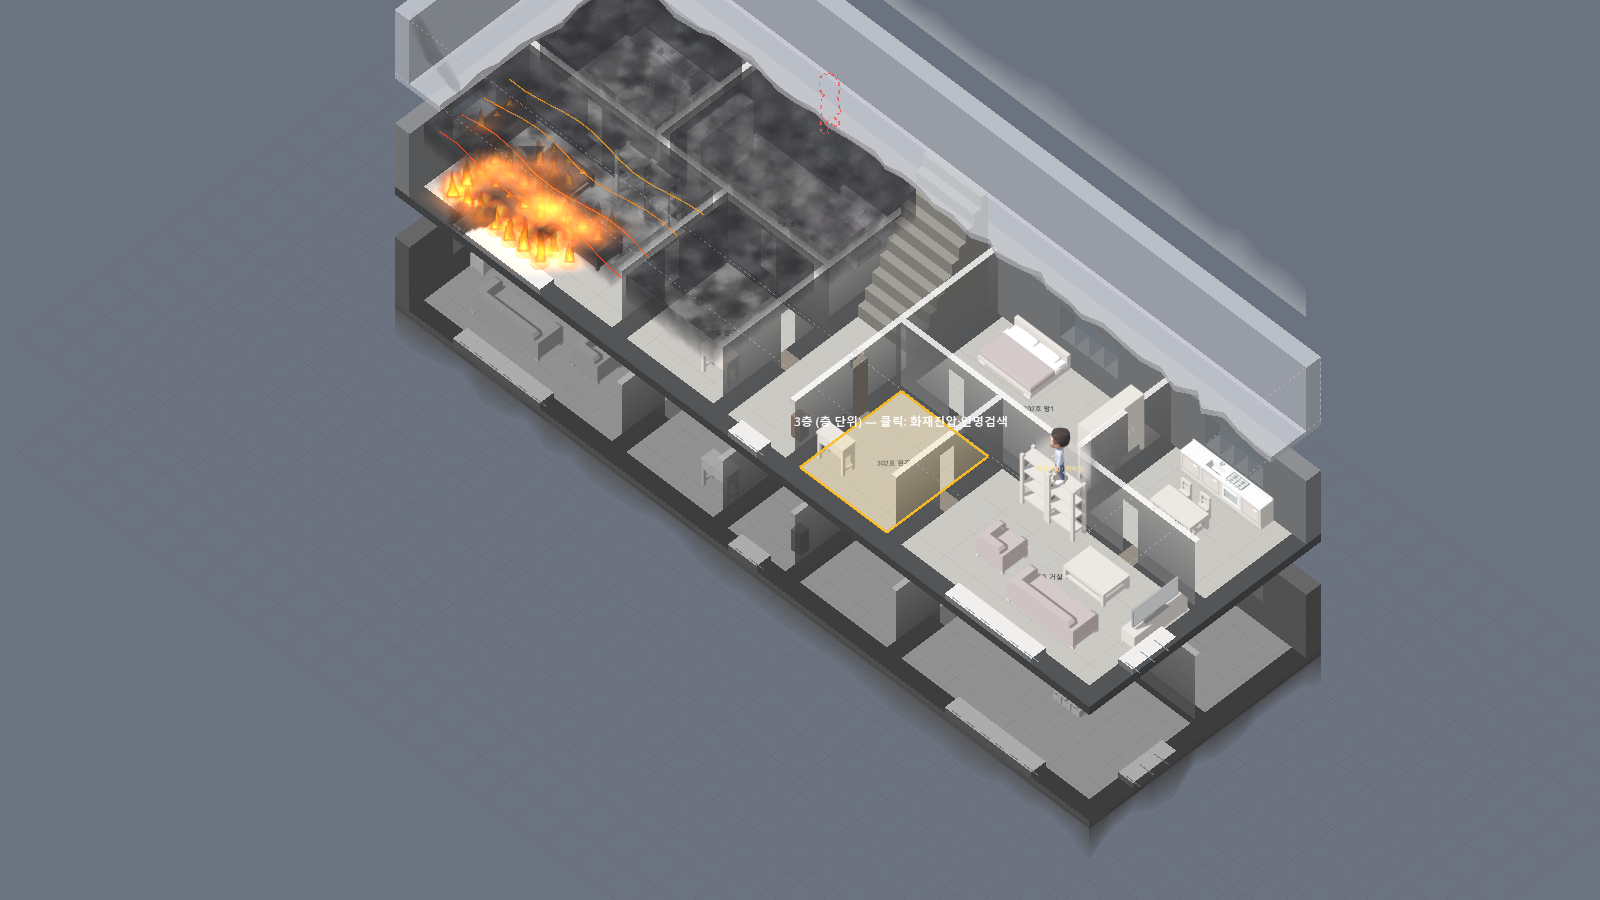
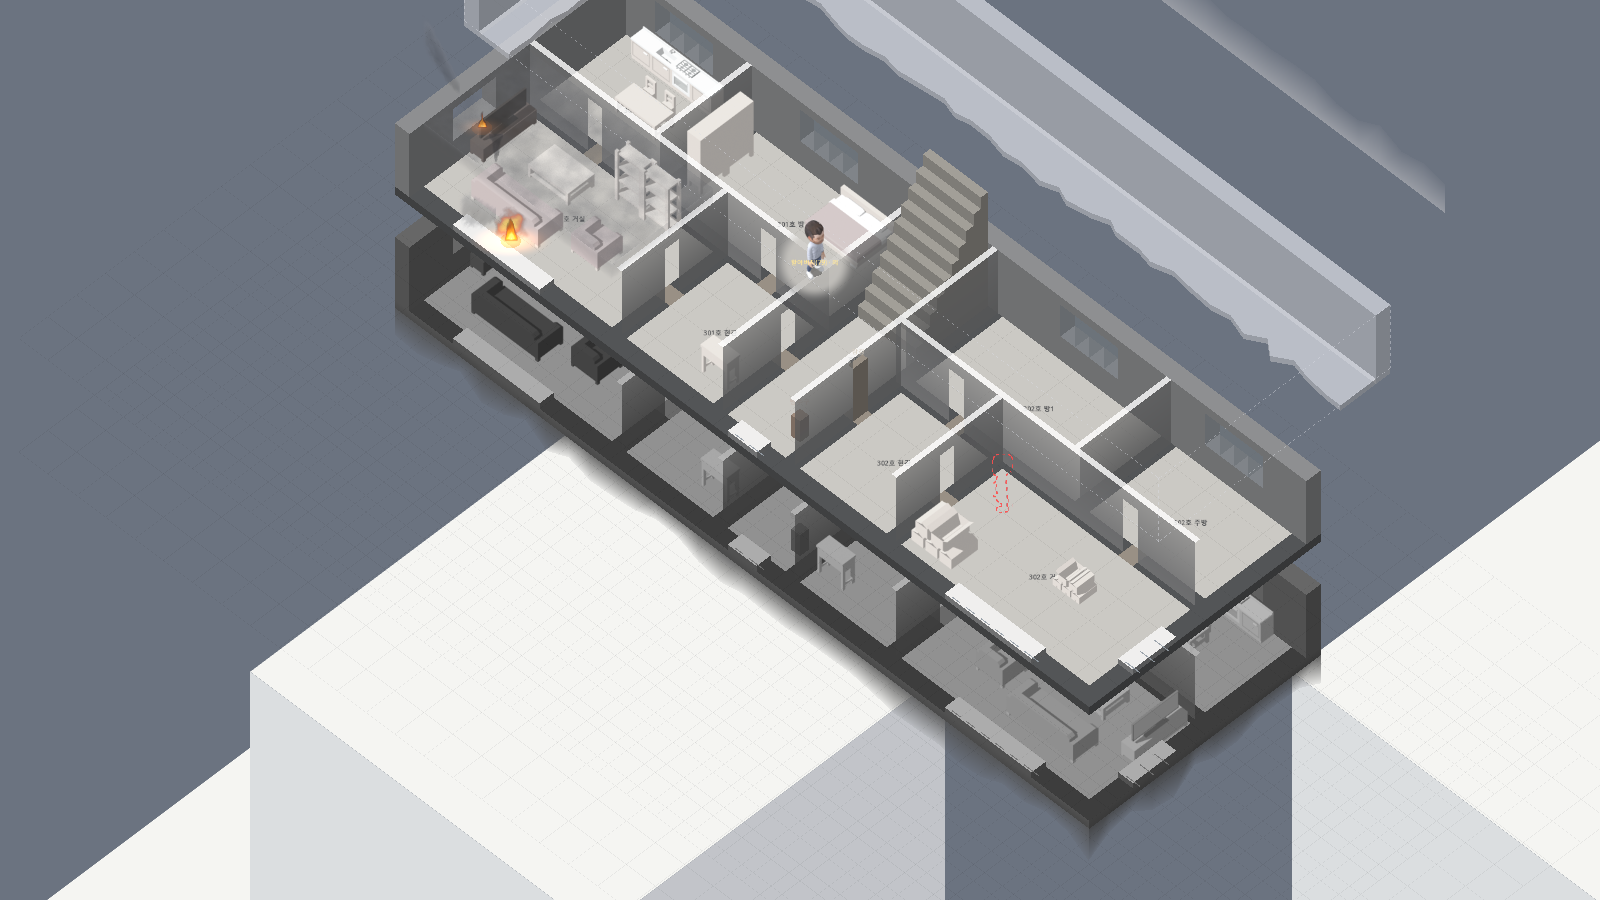
F01: 제자리 쌓기에서도 위층은 건물 뒤쪽으로 비켜 그림 (B안 다시 적용)

diff --git a/docs/decisions.md b/docs/decisions.md
@@ -132,3 +132,4 @@
 | 2026-11-12 | F01 | 위층 뒷벽·턱 진하기 | 0.4 → 0.7 | 사용자 제안 — 위층 벽·턱이 지금 층 방 안을 가리지 않으니 더 진하게 해 입체감을 살림. 턱이 1층 뒷벽 창 윗부분을 조금 덮어 완전 불투명은 피함 |
 | 2026-11-12 | F01 | 아래층은 온전히(흑백) | 위층(턱·점선)과 달리 아래층은 구조(바닥·벽·가구)를 온전히 그린다 — 지금 층이 가리는 곳은 자연히 안 보이고 앞쪽 띠만 보인다. 흑백 + 밝기 72%로 구분, 연기·불은 그리지 않음, 그 층 사람은 점선 테두리. 땅 층이 아래로 보이면 차량·바깥 사람은 원래 색(바깥 땅 겹). 건물 종류와 상관없이 같은 규칙. 위층 벽 상자는 바닥판 두께만큼 아래로 늘려 턱과 아랫면을 맞춤 | 사용자 제안·결정 — 아래층은 지금 층을 가리지 않으니 뜯어낼 이유가 없고, 건물이 아래로 이어진 것이 읽힘 |
 | 2026-11-12 | F01 | 위·아래 한 층씩 + 잘린 벽 | 함께 보이는 층을 위·아래 각 2개 → 1개 층(바로 위 = 턱·뒷벽, 바로 아래 = 흑백 온전)으로. 그 너머에 층이 더 있으면 잘린 벽만: 위쪽은 한 층 위에 뒷벽·왼쪽 벽을 반 층 높이(±불규칙)로 세워 위로 갈수록 투명, 아래쪽은 바닥 아래로 앞·오른쪽 바깥벽을 반 층 내려 아래로 갈수록 투명. 먼 층에는 대원·요구조자 등 아무것도 그리지 않음(층 막대로 안다). 1층 밑(땅)·생략 층으로는 잇지 않음. 먼 층은 화면에서 클릭 불가(층 막대·PgUp/PgDn) | 사용자 제안·결정 — 먼 층은 '더 있다'는 뜻만 있으면 됨 (단면도의 파단선). 화면이 깔끔하고 그리는 양이 줆 |
+| 2026-11-12 | F01 | 위층을 뒤로 비키기 (B 다시 적용) | 제자리 쌓기에서도 위층(턱·뒷벽·잘린 벽)은 층 높이 220px 위 + 건물 뒤쪽(북)으로 깊이 × 0.3 비켜 그림 (FloorStack.upper_vec). 아래층은 지금 층 바로 밑 그대로 | 사용자 결정 — 앞서 고른 B안(위층을 뒤로)이 실루엣 방식으로 바꾸며 빠져 있었음. 감수: 계단이 위층 턱과 만나지 않고, 위층이 뒷벽 위에 얹히지 않고 떠 보임 |

diff --git a/docs/progress.md b/docs/progress.md
@@ -57,3 +57,4 @@
 | 2026-11-12 | F01 지금 층 뒷벽 사라짐 고침 | scripts/ui/building/floor_layer(_draw_mask는 depth > 0 일 때만), tests/ui_cutaway(확인 항목) | 원인: 입체 계단용으로 지금 층에 upper_level을 넘기자 '위층 바닥에 가려지는 칸 빼기'가 지금 층에도 적용됨 (632a4e7에서 생김) |
 | 2026-11-12 | F01 아래층 온전히(흑백) | scripts/ui/iso_view(아래층 ghost_mode 0·self_modulate·skip_live·people_outline·바깥 땅 겹), scripts/ui/building/floor_layer(people_outline, ghost_mode 5, 위층 벽 상자 아랫면), tests(ui_cutaway 확인 항목, ui_smoke 미니맵 끌기 다시 시도) | ui_smoke '미니맵 끌기'가 이번부터 한 번에 안 될 때가 있어 다시 시도하게 고침 — 원인(끼어드는 마우스 입력으로 추정) 미확인. 다음: 튜토리얼 단계 정비 |
 | 2026-11-12 | F01 위·아래 한 층씩 + 잘린 벽 | data/ui/view_params(visible_floors_above/below 1·stub_height_ratio), scripts/ui/building/floor_stack(more_above·more_below)·floor_layer(stub_above·stub_below·_stub_face·_draw_stub_below)·view_params, scripts/ui/iso_view, tests(test_cutaway, ui_cutaway, _shot_floor 점검 도구) | 3층 이상을 볼 때 땅(차량·바깥 대원)이 화면에 안 나옴(예전에는 3층까지 보였음). 다음: 튜토리얼 단계 정비 |
+| 2026-11-12 | F01 위층 뒤로 비키기 | scripts/ui/building/floor_stack(upper_vec, pick_level)·floor_layer(_stub_face lift 벡터), scripts/ui/iso_view, data/ui/view_params(설명), tests(test_cutaway, ui_cutaway) | 계단 디딤판은 수직 220px까지만 — 위층 턱과 어긋남(사용자 감수). 다음: 튜토리얼 단계 정비 |
